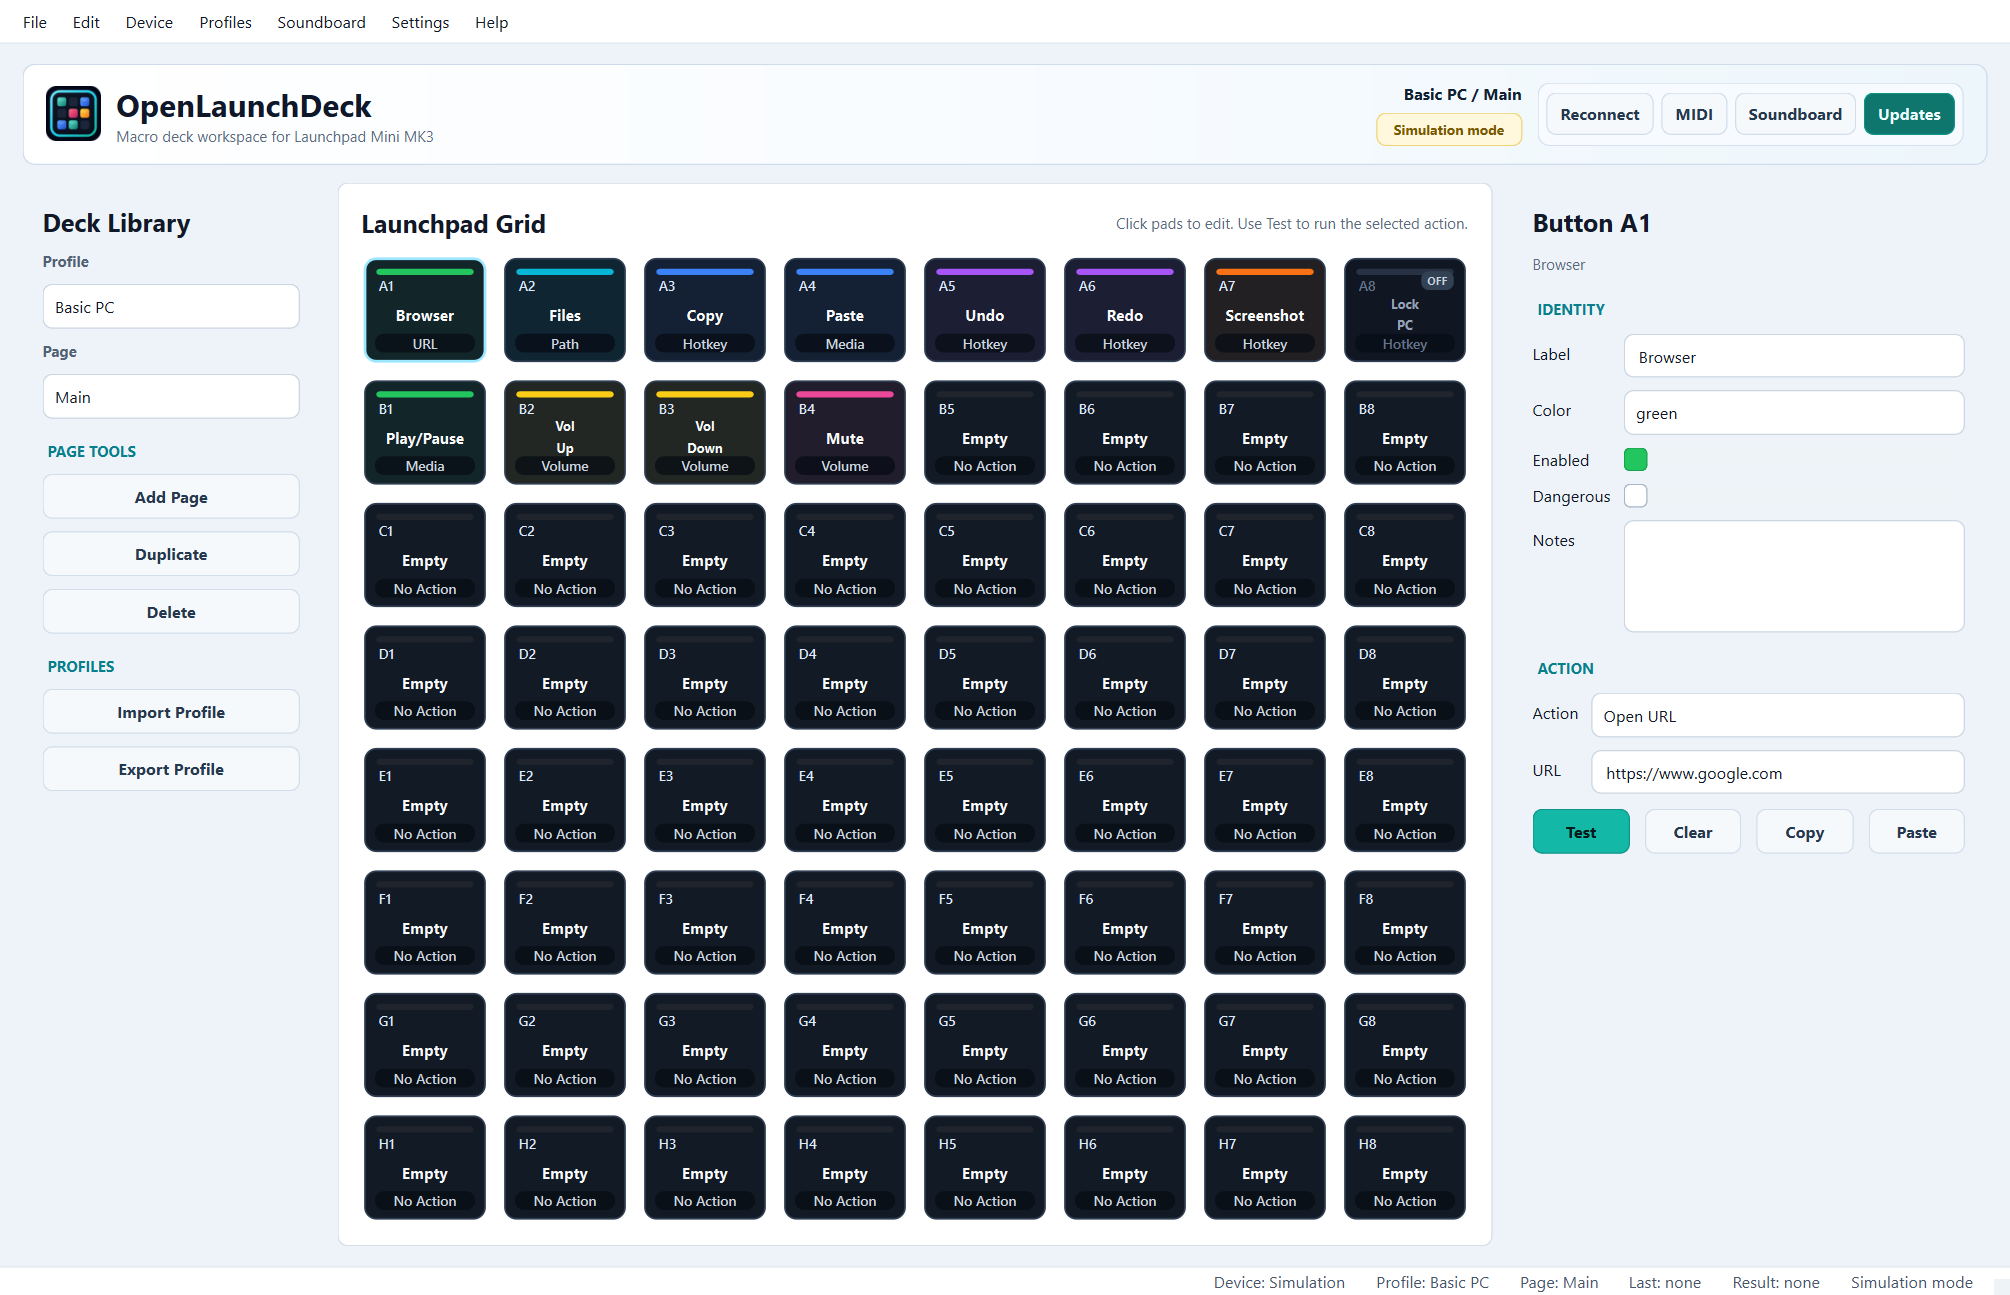
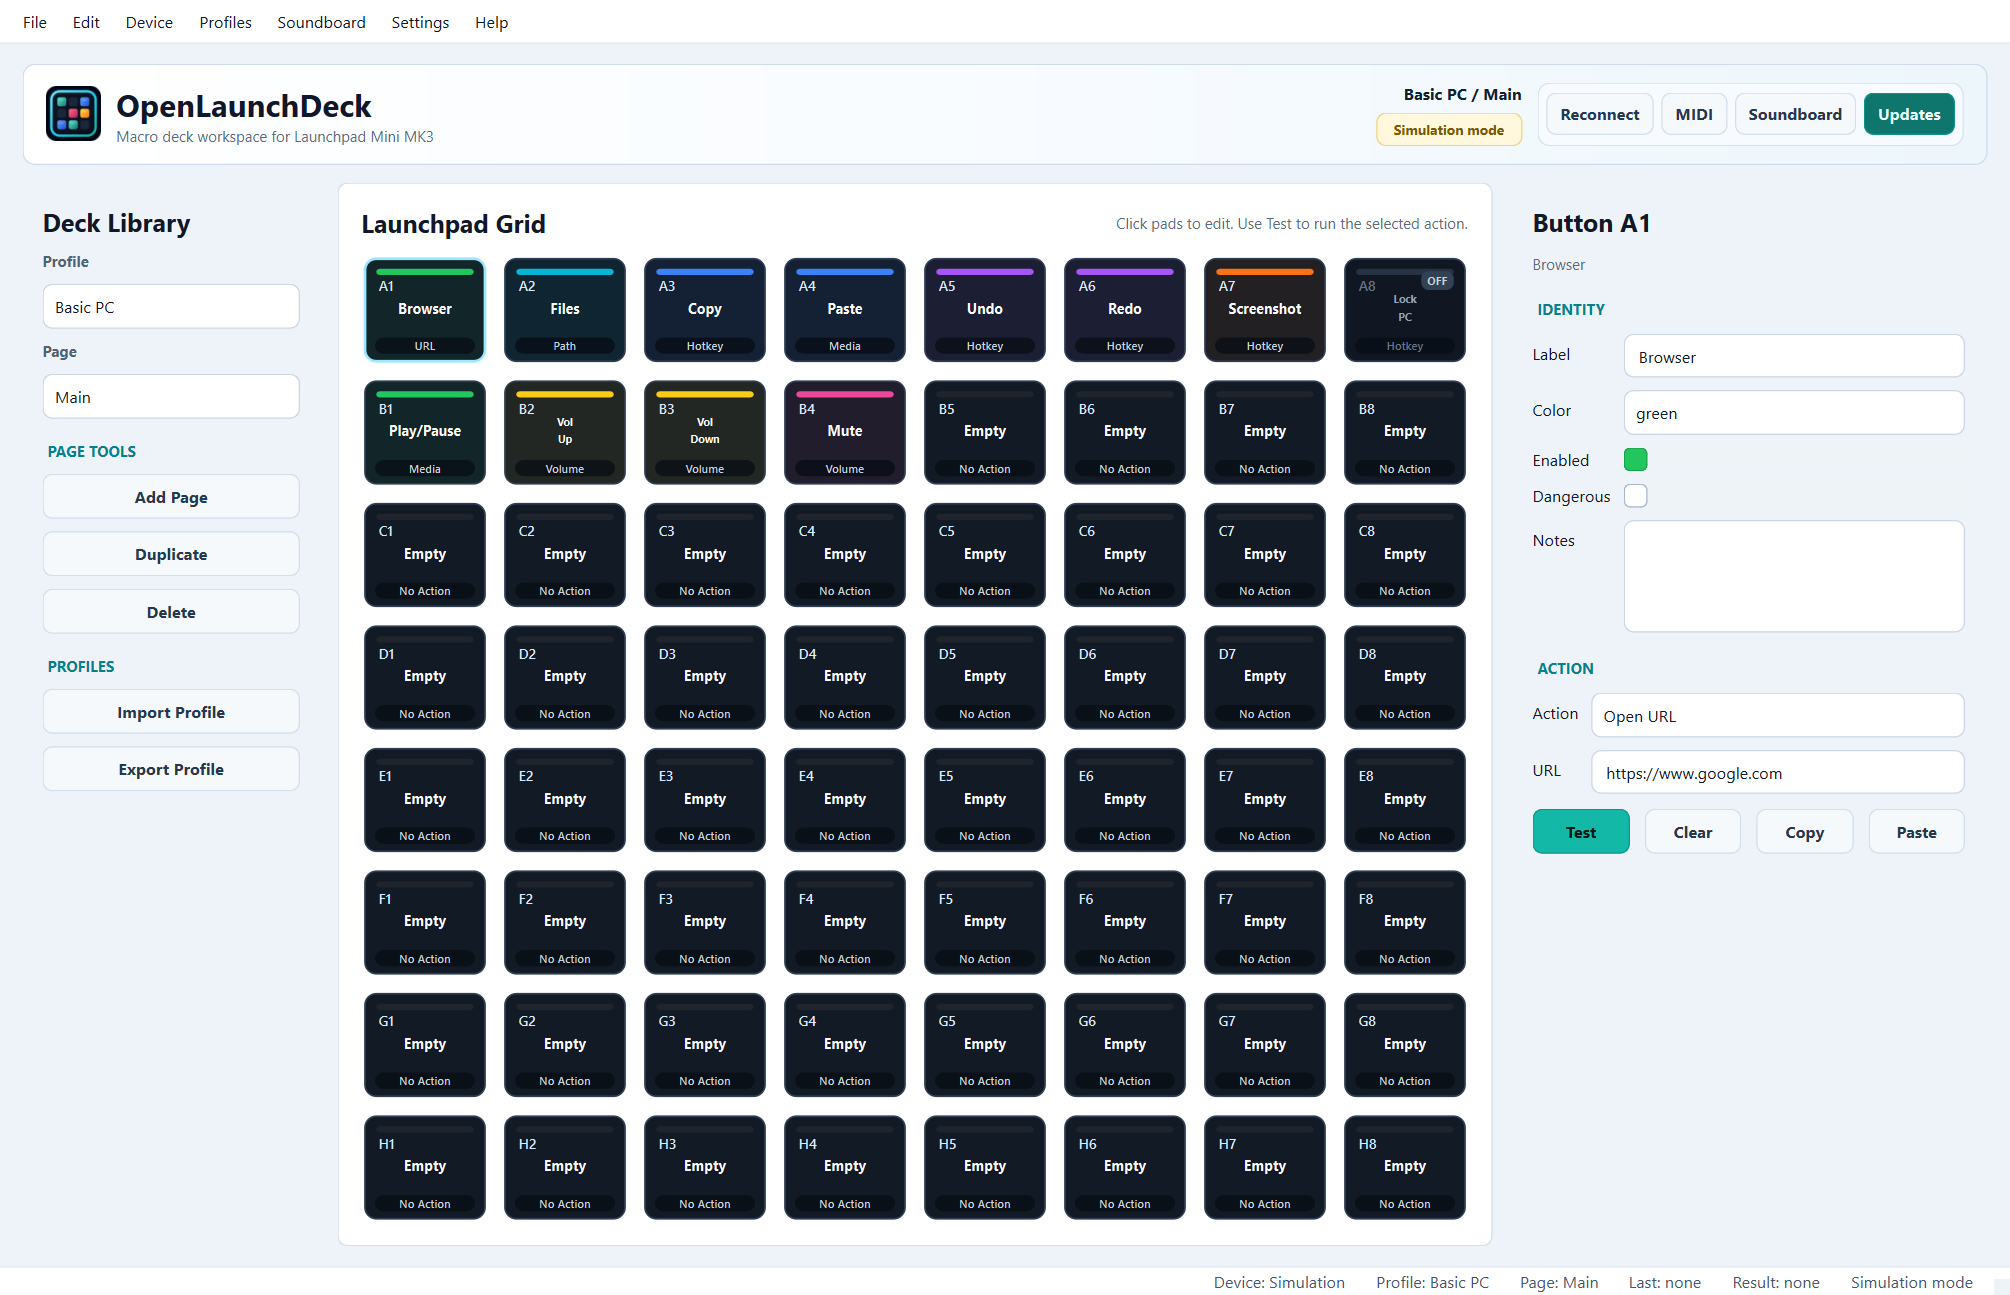
Adjust grid action chip spacing

diff --git a/openlaunchdeck/ui/button_cell.py b/openlaunchdeck/ui/button_cell.py
@@ -185,22 +185,24 @@ class ButtonCell(QWidget):
         if badge:
             self._draw_badge(painter, rect, badge)
 
-        title_font = QFont("Segoe UI", 9 if self._density == "compact" else 10 if self._density == "comfortable" else 11, QFont.Weight.Bold)
+        title_font = QFont("Segoe UI", 8 if self._density == "compact" else 9 if self._density == "comfortable" else 10, QFont.Weight.Bold)
         title_font.setStretch(94)
         painter.setFont(title_font)
         title_color = QColor("#f8fafc") if button.enabled else QColor("#94a3b8")
         painter.setPen(title_color)
-        title_rect = rect.adjusted(7, 29, -7, -21)
+        title_bottom_padding = {"compact": 25, "comfortable": 31, "large": 35}.get(self._density, 31)
+        title_rect = rect.adjusted(7, 28, -7, -title_bottom_padding)
         self._draw_fitted_center(painter, title_rect, label, minimum_size=7)
 
         action_label = ACTION_LABELS.get(action_type, action_type.replace("_", " ").title())
-        action_font = QFont("Segoe UI", 7 if self._density == "compact" else 8, QFont.Weight.DemiBold)
+        action_font = QFont("Segoe UI", 6 if self._density == "compact" else 7, QFont.Weight.DemiBold)
         painter.setFont(action_font)
-        action_font, metrics = self._fit_font(action_font, action_label, max(18, rect.width() - 20), minimum_size=7)
+        action_font, metrics = self._fit_font(action_font, action_label, max(18, rect.width() - 20), minimum_size=6)
         painter.setFont(action_font)
         action_text = metrics.elidedText(action_label, Qt.TextElideMode.ElideRight, max(18, rect.width() - 20))
-        pill_height = 14 if self._density == "compact" else 15
-        pill = QRect(rect.left() + 8, rect.bottom() - pill_height - 6, rect.width() - 16, pill_height)
+        pill_height = 12 if self._density == "compact" else 13 if self._density == "comfortable" else 14
+        pill_bottom_margin = 4 if self._density == "compact" else 5
+        pill = QRect(rect.left() + 8, rect.bottom() - pill_height - pill_bottom_margin, rect.width() - 16, pill_height)
         painter.setPen(Qt.PenStyle.NoPen)
         painter.setBrush(QColor(7, 12, 20, 190))
         painter.drawRoundedRect(pill, 7, 7)

diff --git a/openlaunchdeck/version.py b/openlaunchdeck/version.py
@@ -1,2 +1,2 @@
 APP_NAME = "OpenLaunchDeck"
-__version__ = "0.1.9"
+__version__ = "0.1.10"

diff --git a/CHANGELOG.md b/CHANGELOG.md
@@ -1,5 +1,11 @@
 # Changelog
 
+## 0.1.10
+
+- Lowered and slightly scaled the grid action chips so `Volume` and `No Action` labels have more breathing room.
+- Tightened the grid button title area so action chips no longer crowd the button name.
+- Refreshed dark and light screenshots.
+
 ## 0.1.9
 
 - Reworked the app icon again with a clearer small-size design for desktop and taskbar use.

diff --git a/README.md b/README.md
@@ -121,8 +121,8 @@ When Inno Setup is available, the script builds `dist\installer\OpenLaunchDeckSe
 Every tagged release should publish ready-to-download Windows packages. Push a `v<version>` tag after the version bump is committed:
 
 ```powershell
-git tag v0.1.9
-git push origin v0.1.9
+git tag v0.1.10
+git push origin v0.1.10
 ```
 
 The Release workflow builds and uploads the installer EXE, portable ZIP, and SHA256 checksum files to GitHub Releases. It uses the same build script with CI-specific fast packaging flags so tagged releases spend less time on packaging.